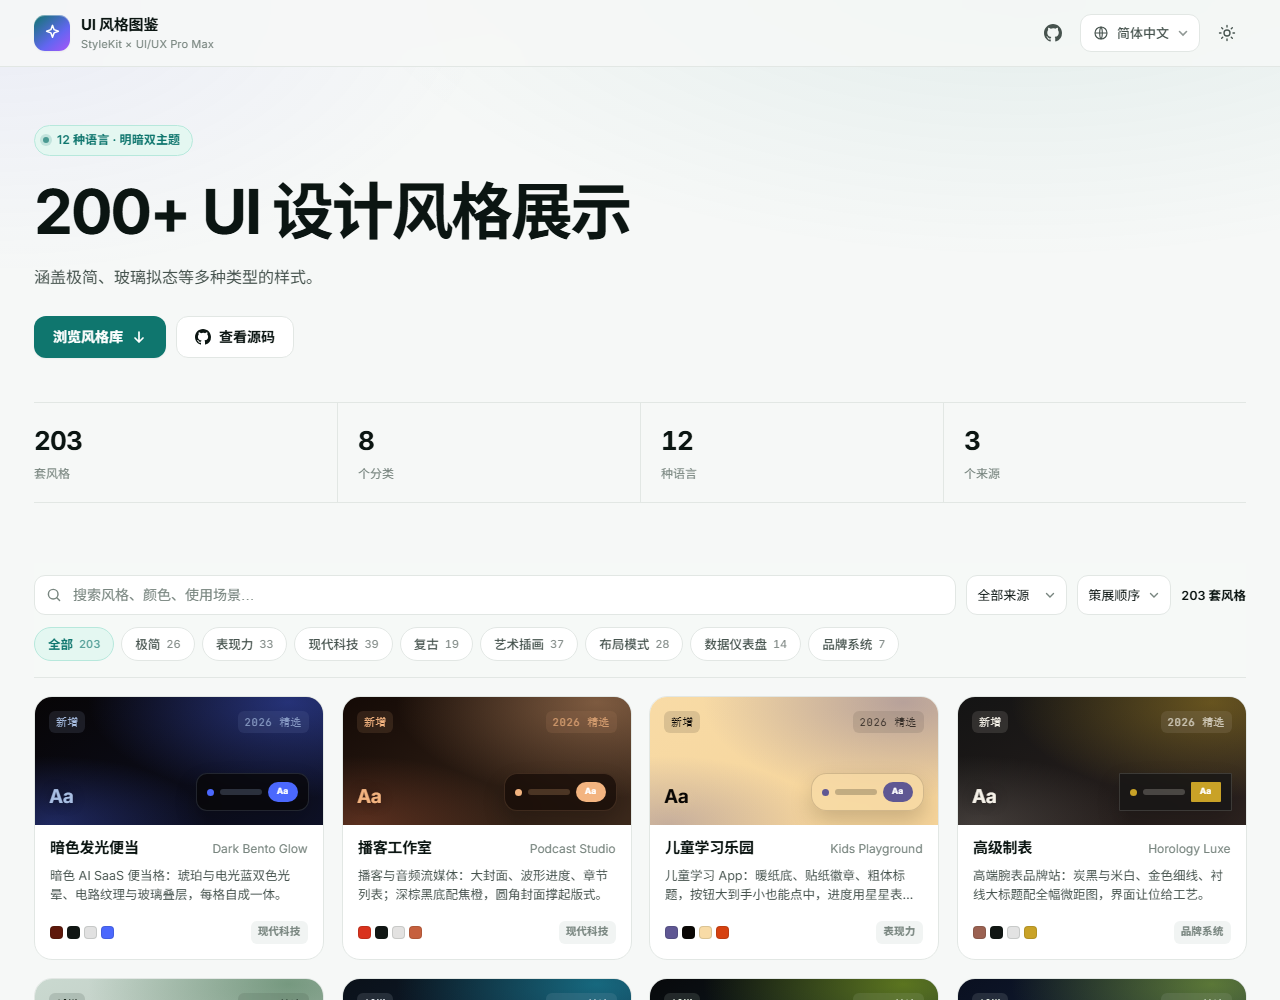
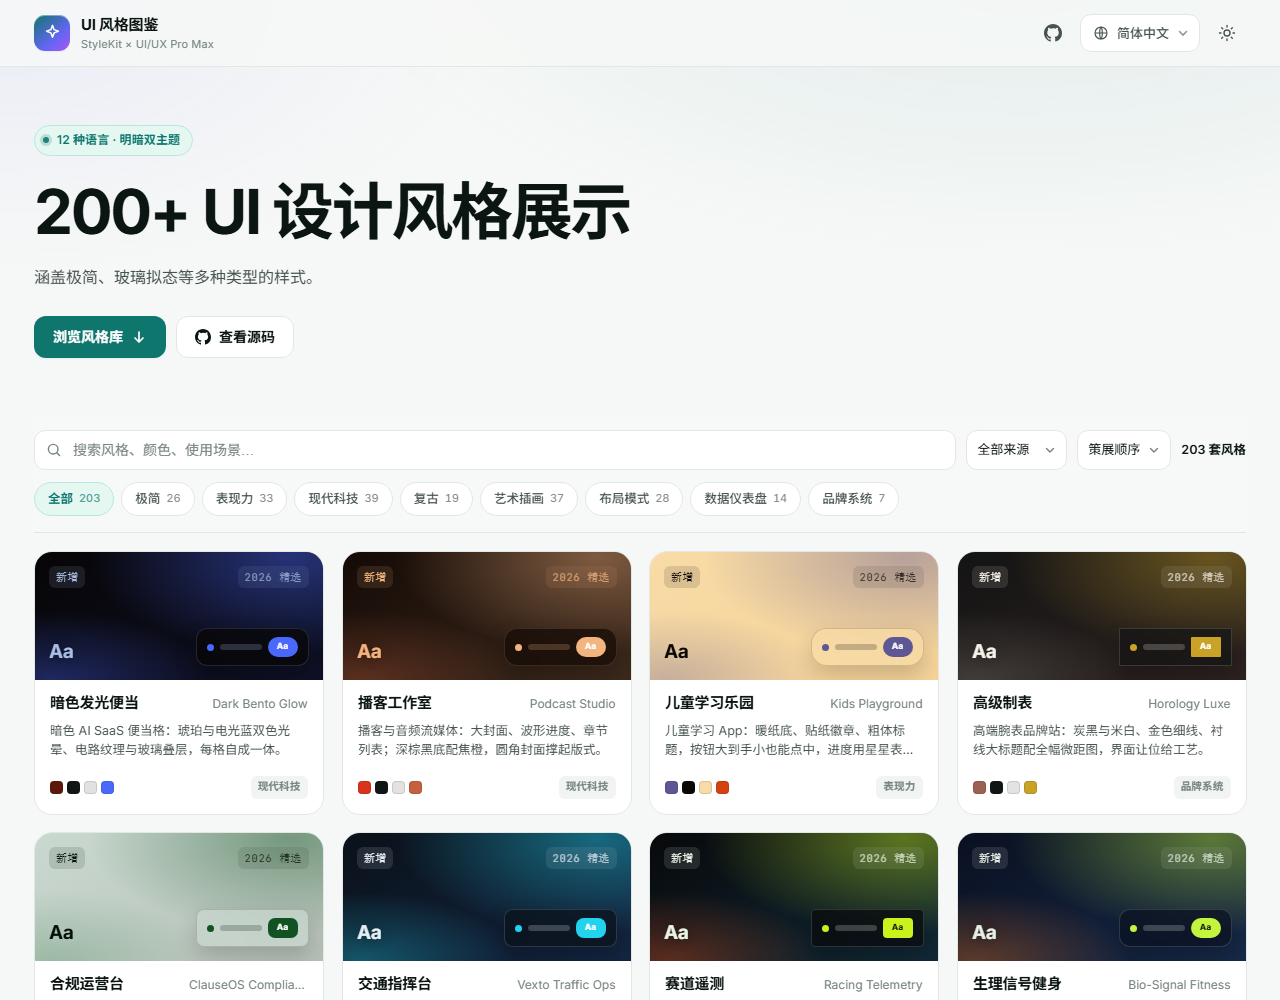
fix: 删掉首屏统计条，静态资源加版本号防缓存
- 移除 203 套风格 / 8 个分类 / 12 种语言 / 3 个来源 四格统计，连同文案键与样式
- app.css、i18n.js、app.js 等资源加 ?v=20261118，避免浏览器继续用旧脚本文案
- 首页截图按新布局重拍

diff --git a/assets/i18n.js b/assets/i18n.js
@@ -30,10 +30,6 @@
     heroLead: 'Minimal, glassmorphism and other style families.',
     ctaBrowse: 'Browse the catalog',
     ctaGithub: 'View source',
-    statStyles: 'styles',
-    statCategories: 'categories',
-    statLanguages: 'languages',
-    statSources: 'sources',
     searchPlaceholder: 'Search styles, colours, use cases…',
     chipAll: 'All',
     catMinimal: 'Minimal',
@@ -175,10 +171,6 @@
       heroLead: '涵盖极简、玻璃拟态等多种类型的样式。',
       ctaBrowse: '浏览风格库',
       ctaGithub: '查看源码',
-      statStyles: '套风格',
-      statCategories: '个分类',
-      statLanguages: '种语言',
-      statSources: '个来源',
       searchPlaceholder: '搜索风格、颜色、使用场景…',
       chipAll: '全部',
       catMinimal: '极简',
@@ -317,10 +309,6 @@
       heroLead: '涵蓋極簡、玻璃擬態等多種類型的樣式。',
       ctaBrowse: '瀏覽風格庫',
       ctaGithub: '查看原始碼',
-      statStyles: '套風格',
-      statCategories: '個分類',
-      statLanguages: '種語言',
-      statSources: '個來源',
       searchPlaceholder: '搜尋風格、顏色、使用情境…',
       chipAll: '全部',
       catMinimal: '極簡',
@@ -459,10 +447,6 @@
       heroLead: 'ミニマル、グラスモーフィズムなど複数のタイプを扱っています。',
       ctaBrowse: 'カタログを見る',
       ctaGithub: 'ソースを見る',
-      statStyles: 'スタイル',
-      statCategories: 'カテゴリ',
-      statLanguages: '言語',
-      statSources: 'ソース',
       searchPlaceholder: 'スタイル・色・用途で検索…',
       chipAll: 'すべて',
       catMinimal: 'ミニマル',
@@ -601,10 +585,6 @@
       heroLead: '미니멀, 글래스모피즘 등 여러 유형의 스타일을 담았습니다.',
       ctaBrowse: '카탈로그 보기',
       ctaGithub: '소스 보기',
-      statStyles: '스타일',
-      statCategories: '카테고리',
-      statLanguages: '언어',
-      statSources: '출처',
       searchPlaceholder: '스타일, 색상, 용도로 검색…',
       chipAll: '전체',
       catMinimal: '미니멀',
@@ -743,10 +723,6 @@
       heroLead: 'Minimal, Glassmorphism und weitere Stilrichtungen.',
       ctaBrowse: 'Katalog ansehen',
       ctaGithub: 'Quellcode',
-      statStyles: 'Styles',
-      statCategories: 'Kategorien',
-      statLanguages: 'Sprachen',
-      statSources: 'Quellen',
       searchPlaceholder: 'Styles, Farben, Anwendungen suchen…',
       chipAll: 'Alle',
       catMinimal: 'Minimal',
@@ -885,10 +861,6 @@
       heroLead: 'Minimalisme, glassmorphism et d’autres familles de styles.',
       ctaBrowse: 'Parcourir le catalogue',
       ctaGithub: 'Voir le code',
-      statStyles: 'styles',
-      statCategories: 'catégories',
-      statLanguages: 'langues',
-      statSources: 'sources',
       searchPlaceholder: 'Rechercher un style, une couleur, un usage…',
       chipAll: 'Tous',
       catMinimal: 'Minimal',
@@ -1027,10 +999,6 @@
       heroLead: 'Minimalismo, glassmorphism y otras familias de estilos.',
       ctaBrowse: 'Explorar el catálogo',
       ctaGithub: 'Ver código',
-      statStyles: 'estilos',
-      statCategories: 'categorías',
-      statLanguages: 'idiomas',
-      statSources: 'fuentes',
       searchPlaceholder: 'Busca estilos, colores, casos de uso…',
       chipAll: 'Todos',
       catMinimal: 'Minimal',
@@ -1169,10 +1137,6 @@
       heroLead: 'Minimalismo, glassmorphism e outras famílias de estilos.',
       ctaBrowse: 'Explorar o catálogo',
       ctaGithub: 'Ver código',
-      statStyles: 'estilos',
-      statCategories: 'categorias',
-      statLanguages: 'idiomas',
-      statSources: 'fontes',
       searchPlaceholder: 'Buscar estilos, cores, casos de uso…',
       chipAll: 'Todos',
       catMinimal: 'Minimal',
@@ -1311,10 +1275,6 @@
       heroLead: 'Minimalismo, glassmorphism e altre famiglie di stili.',
       ctaBrowse: 'Sfoglia il catalogo',
       ctaGithub: 'Vedi il codice',
-      statStyles: 'stili',
-      statCategories: 'categorie',
-      statLanguages: 'lingue',
-      statSources: 'fonti',
       searchPlaceholder: 'Cerca stili, colori, casi d’uso…',
       chipAll: 'Tutti',
       catMinimal: 'Minimal',
@@ -1453,10 +1413,6 @@
       heroLead: 'يشمل الأنماط البسيطة والزجاجية وغيرها من العائلات.',
       ctaBrowse: 'تصفّح الكتالوج',
       ctaGithub: 'عرض الشيفرة',
-      statStyles: 'نمطًا',
-      statCategories: 'فئة',
-      statLanguages: 'لغة',
-      statSources: 'مصدرًا',
       searchPlaceholder: 'ابحث عن نمط أو لون أو استخدام…',
       chipAll: 'الكل',
       catMinimal: 'بسيط',
@@ -1595,10 +1551,6 @@
       heroLead: 'Минимализм, глассморфизм и другие семейства стилей.',
       ctaBrowse: 'Открыть каталог',
       ctaGithub: 'Исходный код',
-      statStyles: 'стилей',
-      statCategories: 'категорий',
-      statLanguages: 'языков',
-      statSources: 'источников',
       searchPlaceholder: 'Поиск по стилю, цвету, задаче…',
       chipAll: 'Все',
       catMinimal: 'Минимализм',

diff --git a/index.html b/index.html
@@ -9,7 +9,7 @@
   <link rel="preconnect" href="https://fonts.googleapis.com">
   <link rel="preconnect" href="https://fonts.gstatic.com" crossorigin>
   <link href="https://fonts.googleapis.com/css2?family=Inter:wght@300;400;500;600;700&family=JetBrains+Mono:wght@400;500&display=swap" rel="stylesheet">
-  <link rel="stylesheet" href="assets/app.css">
+  <link rel="stylesheet" href="assets/app.css?v=20261118">
   <script>
     (function () {
       try {
@@ -40,13 +40,6 @@
             <svg viewBox="0 0 16 16" fill="currentColor" aria-hidden="true"><path d="M8 0C3.58 0 0 3.58 0 8c0 3.54 2.29 6.53 5.47 7.59.4.07.55-.17.55-.38 0-.19-.01-.82-.01-1.49-2.01.37-2.53-.49-2.69-.94-.09-.23-.48-.94-.82-1.13-.28-.15-.68-.52-.01-.53.63-.01 1.08.58 1.23.82.72 1.21 1.87.87 2.33.66.07-.52.28-.87.51-1.07-1.78-.2-3.64-.89-3.64-3.95 0-.87.31-1.59.82-2.15-.08-.2-.36-1.02.08-2.12 0 0 .67-.21 2.2.82a7.4 7.4 0 0 1 2-.27c.68 0 1.36.09 2 .27 1.53-1.04 2.2-.82 2.2-.82.44 1.1.16 1.92.08 2.12.51.56.82 1.27.82 2.15 0 3.07-1.87 3.75-3.65 3.95.29.25.54.73.54 1.48 0 1.07-.01 1.93-.01 2.2 0 .21.15.46.55.38A8 8 0 0 0 16 8c0-4.42-3.58-8-8-8Z"/></svg>
             <span data-i18n="ctaGithub"></span>
           </a>
-        </div>
-
-        <div class="stats reveal">
-          <div class="stat"><b data-stat="styles">203</b><span data-i18n="statStyles"></span></div>
-          <div class="stat"><b data-stat="categories">8</b><span data-i18n="statCategories"></span></div>
-          <div class="stat"><b data-stat="languages">12</b><span data-i18n="statLanguages"></span></div>
-          <div class="stat"><b data-stat="sources">3</b><span data-i18n="statSources"></span></div>
         </div>
       </div>
     </section>
@@ -81,8 +74,8 @@
 
   <footer id="siteFooter"></footer>
 
-  <script src="assets/i18n.js"></script>
-  <script src="assets/data/catalog.js"></script>
-  <script src="assets/app.js"></script>
+  <script src="assets/i18n.js?v=20261118"></script>
+  <script src="assets/data/catalog.js?v=20261118"></script>
+  <script src="assets/app.js?v=20261118"></script>
 </body>
 </html>

diff --git a/assets/app.css b/assets/app.css
@@ -221,17 +221,6 @@ html[lang="ko"] .hero-lead { word-break: keep-all; }
 .btn-ghost:hover { border-color: var(--line-strong); background: var(--surface-2); }
 .btn-sm { height: 34px; padding-inline: 12px; font-size: 12.5px; border-radius: 9px; }
 
-.stats {
-  margin-top: 44px;
-  display: grid;
-  grid-template-columns: repeat(4, minmax(0, 1fr));
-  border-top: 1px solid var(--line);
-  border-bottom: 1px solid var(--line);
-}
-.stat { padding: 18px 20px; border-inline-start: 1px solid var(--line); }
-.stat:first-child { border-inline-start: 0; padding-inline-start: 0; }
-.stat b { display: block; font-size: 26px; font-weight: 650; letter-spacing: -0.03em; font-variant-numeric: tabular-nums; }
-.stat span { font-size: 12px; color: var(--ink-3); }
 
 /* ---------------------------------- toolbar ------------------------------- */
 .library { padding-block: 26px 80px; }
@@ -987,8 +976,6 @@ pre.code::-webkit-scrollbar-thumb { background: var(--line-strong); border-radiu
 
 /* ---------------- responsive ---------------- */
 @media (max-width: 900px) {
-  .stats { grid-template-columns: repeat(2, 1fr); }
-  .stat:nth-child(3) { border-inline-start: 0; padding-inline-start: 0; }
   .footer-grid { grid-template-columns: 1fr 1fr; }
 }
 @media (max-width: 640px) {

diff --git a/style.html b/style.html
@@ -9,7 +9,7 @@
   <link rel="preconnect" href="https://fonts.googleapis.com">
   <link rel="preconnect" href="https://fonts.gstatic.com" crossorigin>
   <link href="https://fonts.googleapis.com/css2?family=Inter:wght@300;400;500;600;700&family=JetBrains+Mono:wght@400;500&display=swap" rel="stylesheet">
-  <link rel="stylesheet" href="assets/app.css">
+  <link rel="stylesheet" href="assets/app.css?v=20261118">
   <script>
     (function () {
       try {
@@ -27,9 +27,9 @@
   <main id="detailRoot"></main>
   <footer id="siteFooter"></footer>
 
-  <script src="assets/i18n.js"></script>
-  <script src="assets/data/catalog.js"></script>
-  <script src="assets/app.js"></script>
-  <script src="assets/style-page.js"></script>
+  <script src="assets/i18n.js?v=20261118"></script>
+  <script src="assets/data/catalog.js?v=20261118"></script>
+  <script src="assets/app.js?v=20261118"></script>
+  <script src="assets/style-page.js?v=20261118"></script>
 </body>
 </html>

diff --git a/assets/app.js b/assets/app.js
@@ -603,8 +603,6 @@
     applyTheme();
     applyLang();
     buildToolbar();
-    const stats = { styles: ATLAS.styles.length, categories: CATS.length, languages: window.I18N.locales.length, sources: 3 };
-    $$('[data-stat]').forEach((el) => { el.textContent = String(stats[el.dataset.stat] || ''); });
     const upd = $('#footerUpdated');
     if (upd) {
       const d = (window.CATALOG && window.CATALOG.generatedAt || new Date().toISOString()).slice(0, 10);
